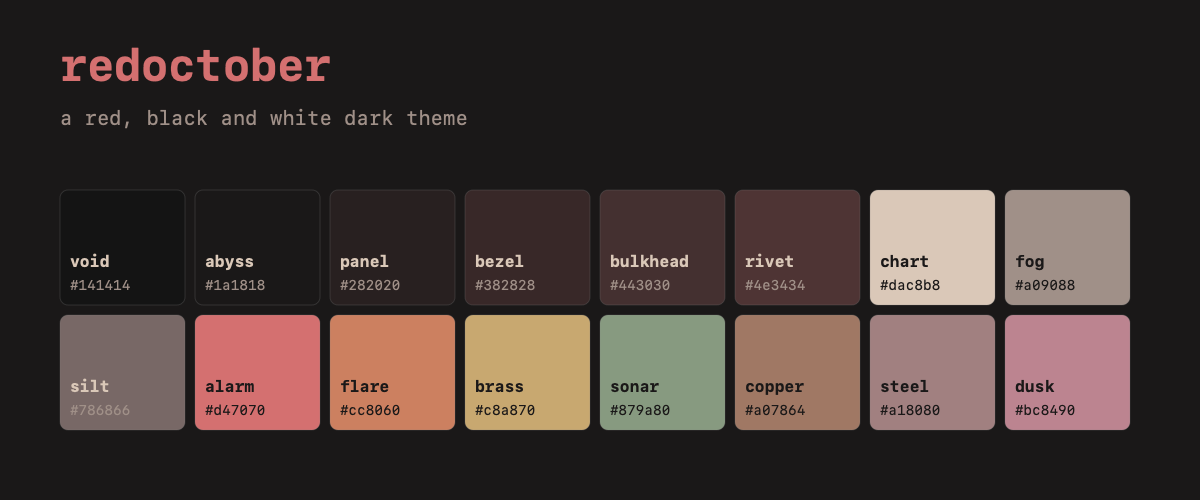
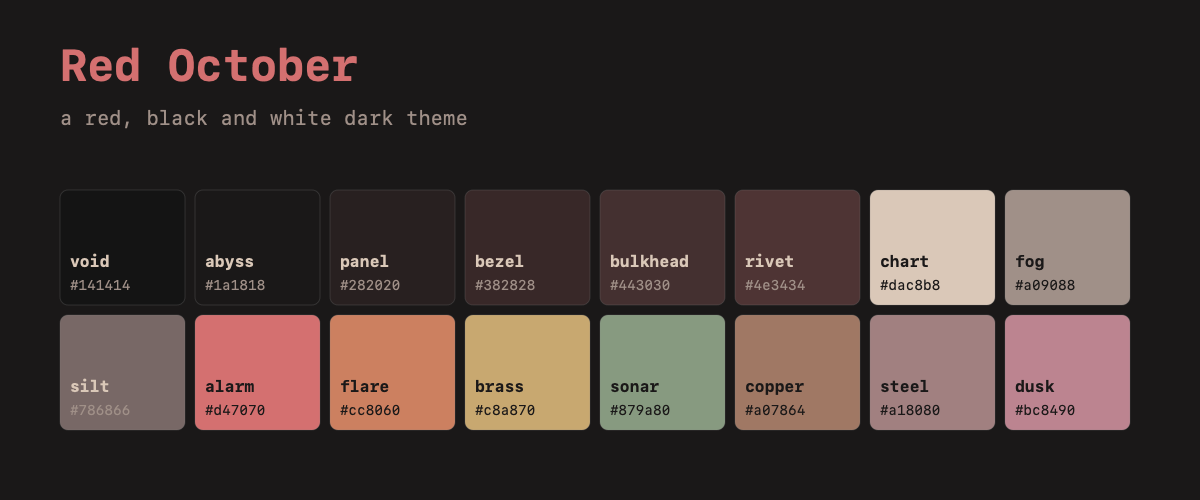
fix: update descriptions
fix: typos

Changed region(s): [[0.0308, 0.09, 0.3083, 0.18]]

diff --git a/README.md b/README.md
@@ -1,4 +1,4 @@
-# redoctober
+# Red October
 
 > The dark side of the moon has a certain something.
 
@@ -29,10 +29,10 @@ scripts/install.sh           # install for the apps you have
 |---|---|
 | `--list`, `--dry-run` | show what would happen |
 | `--link` | symlink to the clone instead of copying |
-| `--only a,b` | limit to `ghostty,zellij,yazi,bat,wezterm,meli,opencode,claude,xcode` |
+| `--only a,b` | limit to `ghostty,zellij,yazi,bat,wezterm,meli,opencode,claude,lazygit,xcode` |
 | `--all` | install for every app, found or not |
 
-A different existing file is kept as `<name>.bak`. The installer prints the one line each app still needs in its config (for example `theme = redoctober`). Starship is merge-only, so it just tells you what to paste. Neovim and Yazi have their own package install, below. Windows isn't supported yet; copy the files by hand.
+A different existing file is kept as `<name>.bak`. The installer prints the one line each app still needs in its config (for example `theme = redoctober`). Starship and lazygit are merge-only (neither can import a theme file), so the installer just tells you what to paste. Neovim and Yazi have their own package install, below. Windows isn't supported yet; copy the files by hand.
 
 ### Manual install
 
@@ -102,9 +102,17 @@ Copy `meli/redoctober.toml` to `~/.config/meli/themes/redoctober.toml` and set `
 
 Copy `opencode/redoctober.json` to `~/.config/opencode/themes/redoctober.json`, then set `"theme": "redoctober"` in `tui.json`.
 
+### lazygit
+
+Lazygit can't import a theme file, so either merge the `gui.theme` block from `lazygit/redoctober.yml` into your `config.yml`, or load it next to your config (the installer puts it in `<lazygit config dir>/themes/`):
+
+```sh
+LG_CONFIG_FILE="$HOME/.config/lazygit/config.yml,$HOME/.config/lazygit/themes/redoctober.yml" lazygit
+```
+
 ### Claude Code
 
-Copy `claude/redoctober.json` to `~/.claude/themes/redoctober.json`, then run `/theme` in Claude Code and pick **redoctober** (restart once if `~/.claude/themes/` didn't exist). It's a custom theme on the `dark` base that recolors the accent, status, diff, message-background and subagent tokens.
+Copy `claude/redoctober.json` to `~/.claude/themes/redoctober.json`, then run `/theme` in Claude Code and pick **Red October** (restart once if `~/.claude/themes/` didn't exist). It's a custom theme on the `dark` base that recolors the accent, status, diff, message-background and subagent tokens.
 
 ### Xcode
 
@@ -119,7 +127,7 @@ The `.xccolortheme` colors are written in Generic RGB, which is how Xcode reads 
 
 `palette.toml` is the single source of truth. Every theme file is generated from it, so a color change is one edit and a regenerate.
 
-```
+```text
 palette.toml        base colors, roles, ANSI mapping
 templates/          one template per generated file, with {{placeholders}}
 scripts/            generator, tests, color math

diff --git a/redoctober.yazi/README.md b/redoctober.yazi/README.md
@@ -1,6 +1,6 @@
-# redoctober for Yazi
+# Red October for Yazi
 
-A red, black and white dark flavor, part of [redoctober](https://github.com/connectwithawalsh/redoctober).
+A red, black and white dark flavor, part of [Red October](https://github.com/connectwithawalsh/redoctober).
 
 ```sh
 ya pkg add connectwithawalsh/redoctober:redoctober

diff --git a/templates/redoctober.yazi/README.md b/templates/redoctober.yazi/README.md
@@ -1,6 +1,6 @@
-# redoctober for Yazi
+# Red October for Yazi
 
-A red, black and white dark flavor, part of [redoctober](https://github.com/connectwithawalsh/redoctober).
+A red, black and white dark flavor, part of [Red October](https://github.com/connectwithawalsh/redoctober).
 
 ```sh
 ya pkg add connectwithawalsh/redoctober:redoctober

diff --git a/PALETTE.md b/PALETTE.md
@@ -1,5 +1,5 @@
 <!-- Generated from palette.toml by scripts/generate.lua. Edit the template in templates/PALETTE.md. -->
-# Redoctober Palette
+# Red October Palette
 
 Colors are named for the instruments on a submarine console. The tables below say what each color
 is used for in the Neovim and Xcode themes.

diff --git a/templates/PALETTE.md b/templates/PALETTE.md
@@ -1,5 +1,5 @@
 <!-- Generated from palette.toml by scripts/generate.lua. Edit the template in templates/PALETTE.md. -->
-# Redoctober Palette
+# Red October Palette
 
 Colors are named for the instruments on a submarine console. The tables below say what each color
 is used for in the Neovim and Xcode themes.
